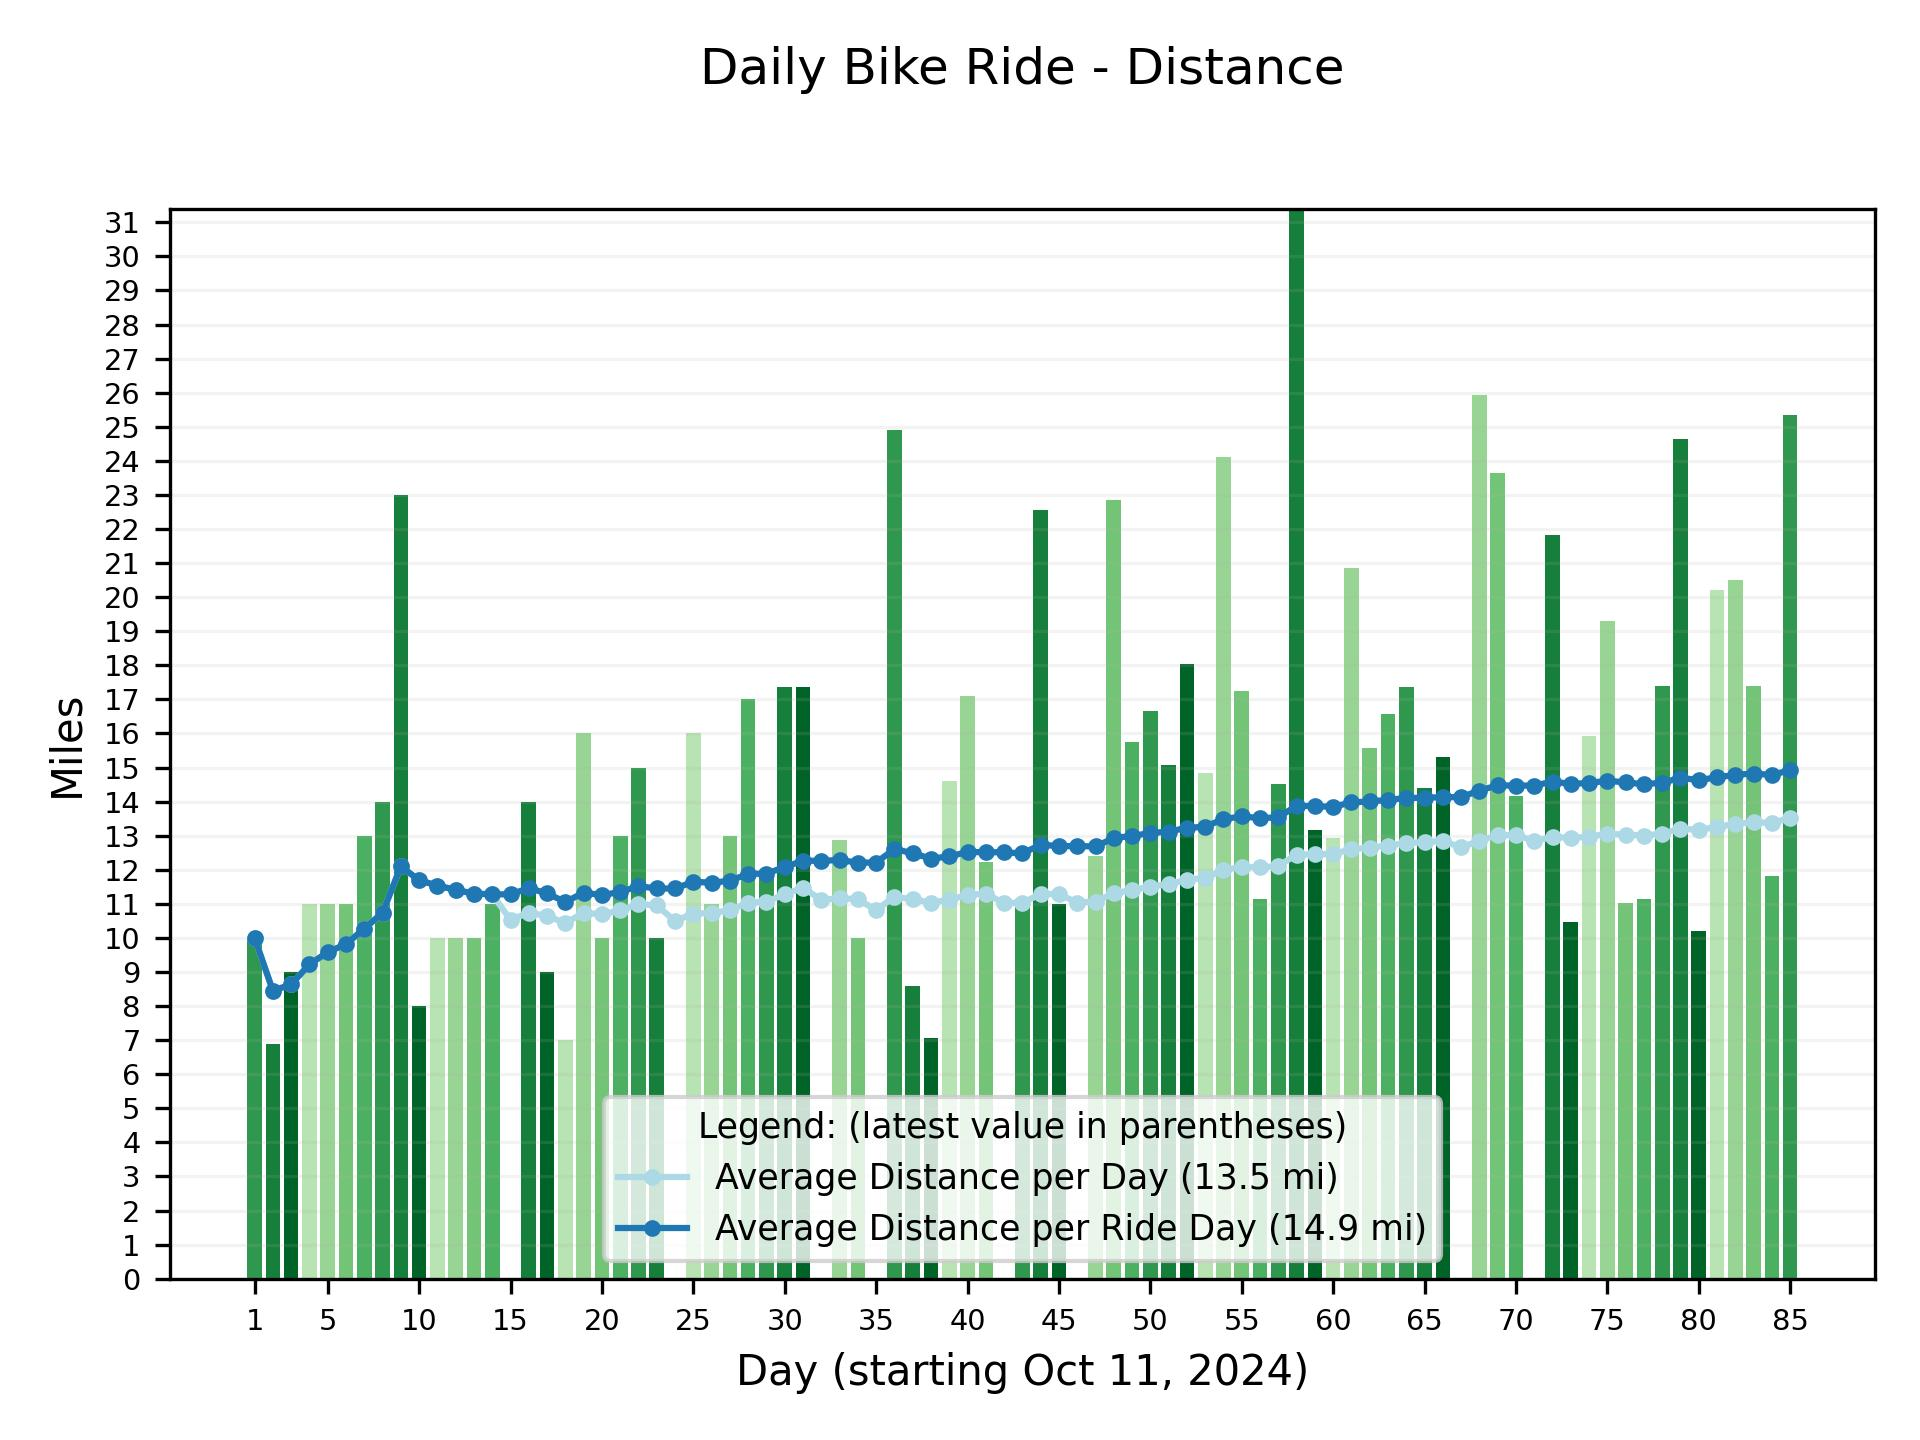
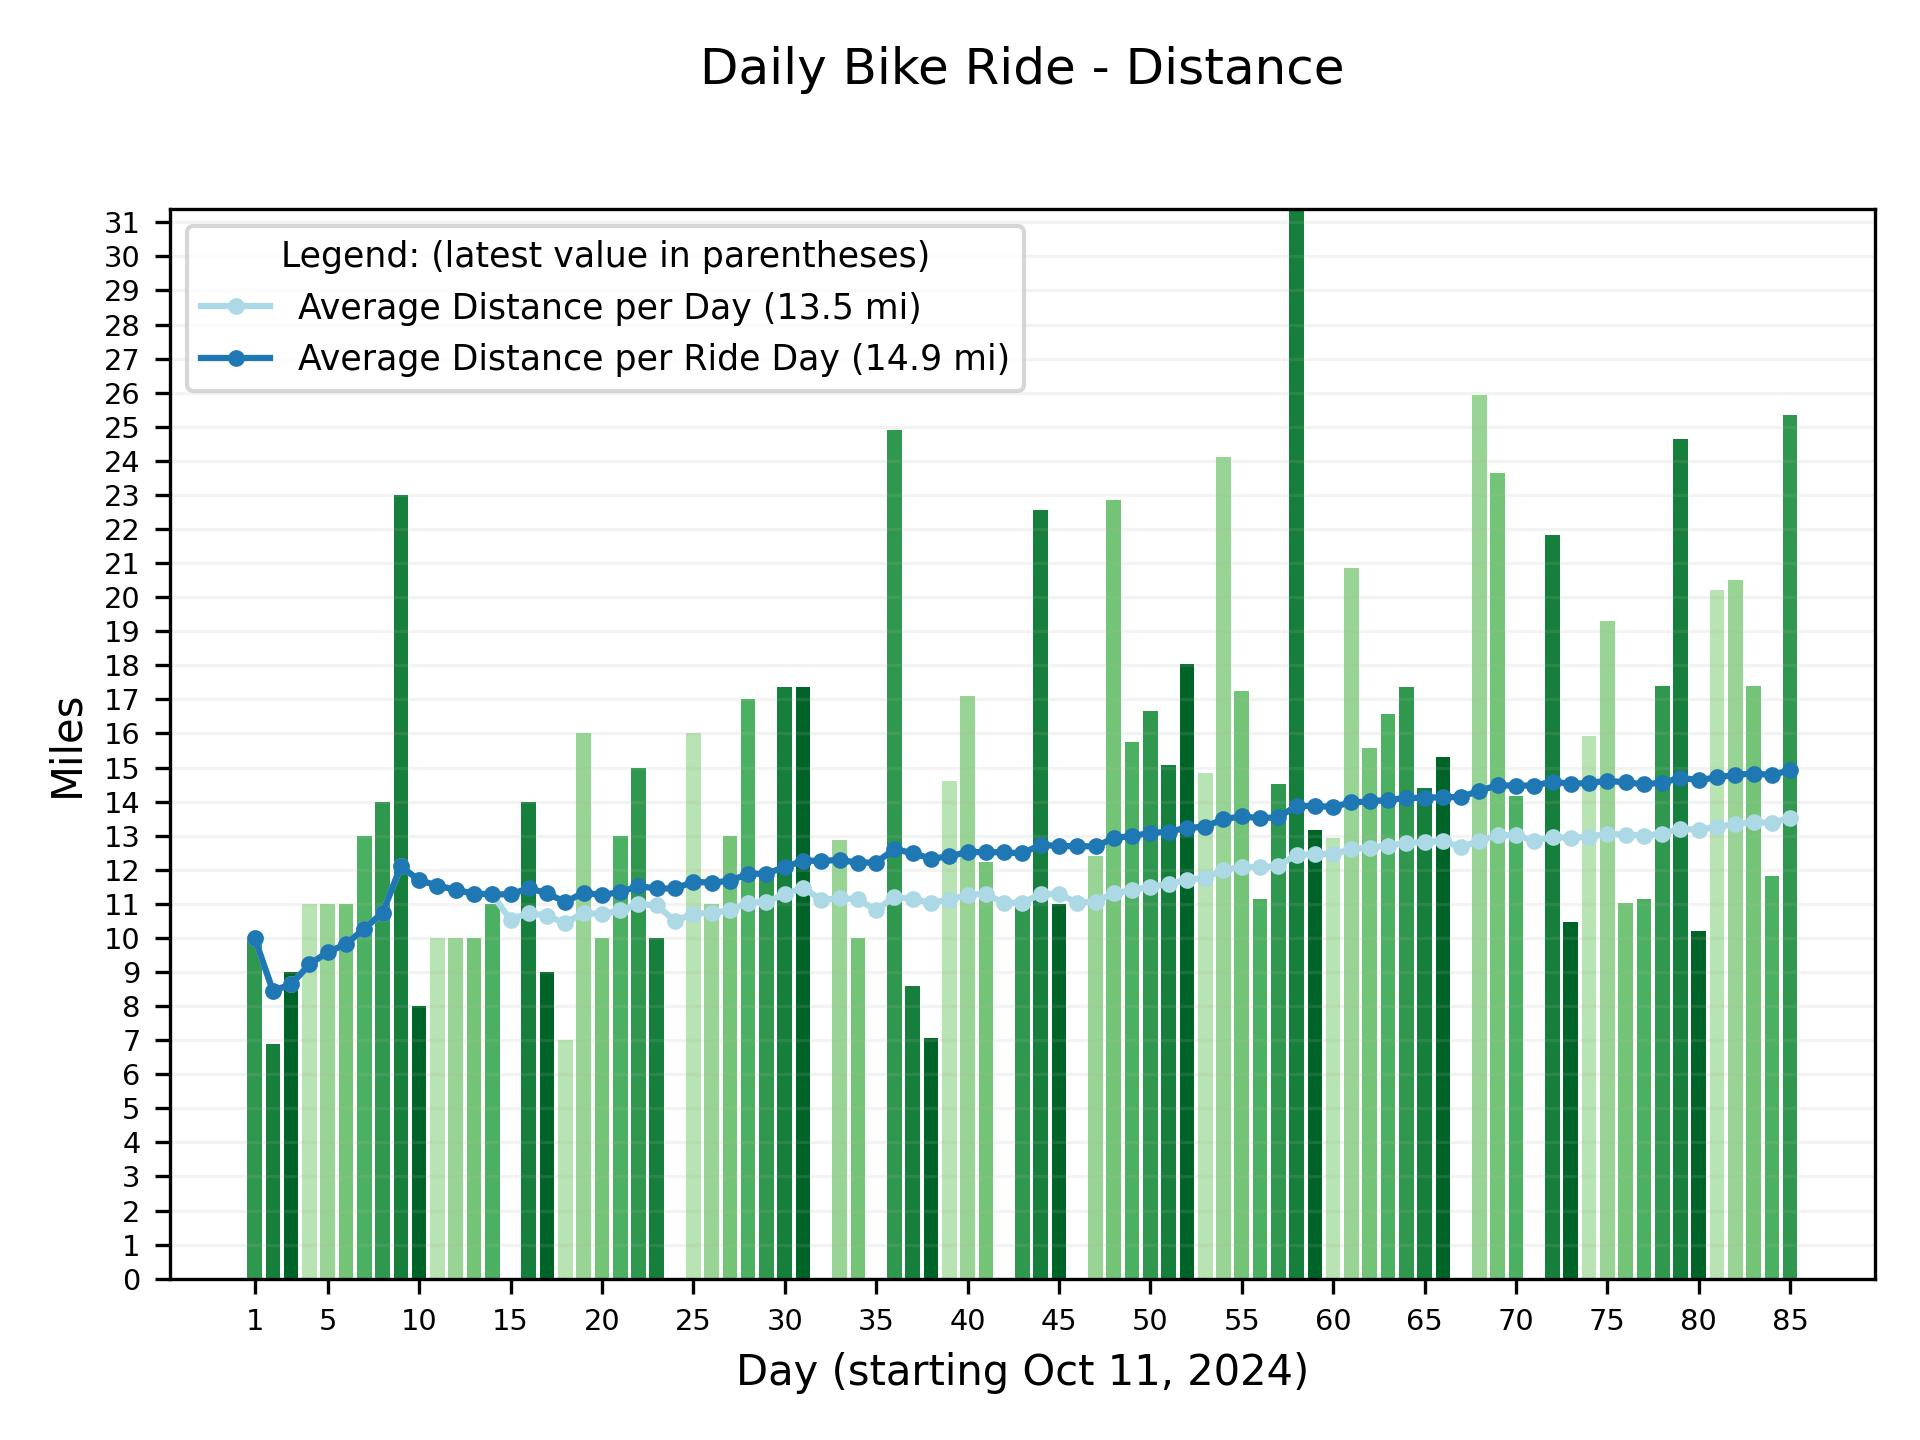
refactor and show more stats summary values

Changed region(s): [[0.3125, 0.75, 0.75, 0.875], [0.0938, 0.1562, 0.5312, 0.2812]]

diff --git a/src/biking/stats.py b/src/biking/stats.py
@@ -1,5 +1,7 @@
 import calendar
 
+from .conversions import feet2miles
+
 
 class Statistics:
     def __init__(self, input_data):
@@ -13,6 +15,16 @@ class Statistics:
         max_miles = 0
         min_miles = 999
         total_miles = 0
+
+        max_elev_gain = 0
+        min_elev_gain = 999
+        total_elev_gain = 0
+
+        max_elev_high = 0
+        min_elev_high = 999
+
+        max_elev_low = 0
+        min_elev_low = 999
 
         data = dict(
             ride_rate_per_day=[],
@@ -30,13 +42,29 @@ class Statistics:
 
         for record in daily_data:
             miles = record["distance"]
-            num_days += 1
-            num_biked_days += (1 if miles else 0)
-
             if 0 < miles < min_miles:
                 min_miles = miles
             max_miles = max(miles, max_miles)
             total_miles += miles
+
+            elev_gain = record["total_elevation_gain"]
+            if 0 < elev_gain < min_elev_gain:
+                min_elev_gain = elev_gain
+            max_elev_gain = max(elev_gain, max_elev_gain)
+            total_elev_gain += elev_gain
+
+            elev_high = record["elev_high"]
+            if 0 < elev_high < min_elev_high:
+                min_elev_high = elev_high
+            max_elev_high = max(elev_high, max_elev_high)
+
+            elev_low = record["elev_low"]
+            if 0 < elev_low < min_elev_low:
+                min_elev_low = elev_low
+            max_elev_low = max(elev_low, max_elev_low)
+
+            num_days += 1
+            num_biked_days += (1 if miles else 0)
 
             data["ride_rate_per_day"].append((num_biked_days * 100)/num_days)
             data["distance_per_day"].append(miles)
@@ -44,9 +72,9 @@ class Statistics:
             data["avg_distance_per_ride_day"].append(total_miles/num_biked_days)
             data["avg_speed_per_day"].append(record["average_speed"])
             data["max_speed_per_day"].append(record["max_speed"])
-            data["elevation_gain_per_day"].append(record["total_elevation_gain"])
-            data["elevation_high_per_day"].append(record["elev_high"])
-            data["elevation_low_per_day"].append(record["elev_low"])
+            data["elevation_gain_per_day"].append(elev_gain)
+            data["elevation_high_per_day"].append(elev_high)
+            data["elevation_low_per_day"].append(elev_low)
 
         first_date, last_date = self.input_data.date_range
         first_day_of_week = calendar.weekday(first_date.year, first_date.month, first_date.day)
@@ -56,10 +84,17 @@ class Statistics:
             first_date=first_date,
             first_day_of_week=first_day_of_week,
             last_date=last_date,
+            max_elev_gain=max_elev_gain,
+            max_elev_high=max_elev_high,
+            max_elev_low=max_elev_low,
             max_miles=max_miles,
+            min_elev_gain=min_elev_gain,
+            min_elev_high=min_elev_high,
+            min_elev_low=min_elev_low,
             min_miles=min_miles,
             num_biked_days=num_biked_days,
             num_days=num_days,
+            total_elev_gain=total_elev_gain,
             total_miles=total_miles,
         )
 
@@ -67,12 +102,26 @@ class Statistics:
 
     def report(self):
         stats = self.stats
+        data = stats["data"]
+
         first_date = stats["first_date"]
         last_date = stats["last_date"]
+        max_elev_gain = int(stats["max_elev_gain"])
+        max_elev_high = int(stats["max_elev_high"])
+        max_elev_low = int(stats["max_elev_low"])
         max_miles = stats["max_miles"]
+        max_speed_avg = max(data["avg_speed_per_day"])
+        max_speed_max = max(data["max_speed_per_day"])
+        min_elev_gain = int(stats["min_elev_gain"])
+        min_elev_high = int(stats["min_elev_high"])
+        min_elev_low = int(stats["min_elev_low"])
         min_miles = stats["min_miles"]
+        min_speed_avg = min(x for x in data["avg_speed_per_day"] if x > 0)
+        min_speed_max = min(x for x in data["max_speed_per_day"] if x > 0)
         num_biked_days = stats["num_biked_days"]
         num_days = stats["num_days"]
+        total_elev_gain = int(stats["total_elev_gain"])
+        total_elev_gain_miles = feet2miles(total_elev_gain)
         total_miles = stats["total_miles"]
 
         first_day = first_date.strftime("%Y-%m-%d")
@@ -85,11 +134,22 @@ class Statistics:
 
         print(f"Date range: {first_day} to {last_day}")
         print()
-        print("total days  biked  skipped  ride rate")
-        print("----------  -----  -------  ---------")
-        print(f"{num_days:10}  {num_biked_days:5}  {num_skipped_days:7}  {ride_rate:8.2f}%")
+        print("days  total  biked  skipped  ride rate")
+        print("      -----  -----  -------  ---------")
+        print(f"{num_days:11}  {num_biked_days:5}  {num_skipped_days:7}  {ride_rate:8.2f}%")
         print()
-        print("biked miles  min   max   avg   avg-per-day-biked")
-        print("-----------  ----  ----  ----  -----------------")
-        print(f"{total_miles:11.1f}  {min_miles:4.1f}  {max_miles:4.1f}  {avg_miles:4.1f}  {avg_ride_day_miles:17.1f}")
+        print("distance (miles)  min   max   avg   avg-per-day-biked  total")
+        print("                  ----  ----  ----  -----------------  -------")
+        print(f"{min_miles:22.1f}  {max_miles:4.1f}  {avg_miles:4.1f}  {avg_ride_day_miles:17.1f}  {total_miles:7.1f}")
         print()
+        print("elevation gain (ft)  min   max   total    total miles")
+        print("                     ----  ----  -------  -----------")
+        print(f"{min_elev_gain:25}  {max_elev_gain:4}  {total_elev_gain:7}  {total_elev_gain_miles:11.1f}")
+        print()
+        print("elevation range (ft)  low:  min   max   high:  min   max")
+        print("                            ----  ----         ----  ----")
+        print(f"{min_elev_low:31}  {max_elev_low:4}  {min_elev_high:12}  {max_elev_high:4}")
+        print()
+        print("speed (mph)  avg:  min   max   max:  min   max")
+        print("                   ----  ----        ----  ----")
+        print(f"{min_speed_avg:23.1f}  {max_speed_avg:4.1f}  {min_speed_max:10.1f}  {max_speed_max:4.1f}")

diff --git a/src/biking/graph/base.py b/src/biking/graph/base.py
@@ -34,9 +34,9 @@ class Graph:
 
         return colors
 
-    def set_legend(self, handles, labels):
+    def set_legend(self, handles, labels, loc="lower center"):
         plt.legend(
-            loc="lower center",
+            loc=loc,
             fontsize="small",
             title="Legend: (latest value in parentheses)",
             title_fontsize="small",
@@ -95,22 +95,29 @@ class Graph:
         return line1, line2
 
     def y_axis_elevation(self, ax1):
-        y = self.stats["data"]["elevation_gain_per_day"]
+        y_gain = self.stats["data"]["elevation_gain_per_day"]
+        y_high = self.stats["data"]["elevation_high_per_day"]
+        y_low = self.stats["data"]["elevation_low_per_day"]
         x = list(range(self.num_days))
 
-        y = [round(n) for n in y]
+        y_gain = [round(n) for n in y_gain]
+        y_high = [round(n) for n in y_high]
+        y_low = [round(n) for n in y_low]
 
         ax1.set_ylabel("Feet")
-        plt.ylim(0, max(y))
-        plt.yticks(range(0, int(max(y)) + 1, 100), fontsize="x-small")
+        max_y = int(max(*y_gain, *y_high))
+        plt.ylim(0, max_y)
+        plt.yticks(range(0, max_y + 1, 100), fontsize="x-small")
 
         plt.grid(axis="y", linestyle="-", alpha=0.15)
 
         colors = self.get_colors()
-        ax1.bar(x, y, color=colors)
-        dots1, = ax1.plot(x, y, color="tab:blue", linestyle="None", marker="o", markersize=3)
+        ax1.bar(x, y_gain, color=colors)
+        dots1, = ax1.plot(x, y_gain, color="tab:blue", linestyle="None", marker="o", markersize=3)
+        line1, = ax1.plot(x, y_low, color="yellow", linestyle="None", marker="o", markersize=3)
+        line2, = ax1.plot(x, y_high, color="orange", linestyle="None", marker="o", markersize=3)
 
-        return dots1
+        return dots1, line1, line2
 
     def y_axis_speed(self, ax1):
         y_avg = self.stats["data"]["avg_speed_per_day"]

diff --git a/src/biking/graph/elevation.py b/src/biking/graph/elevation.py
@@ -4,24 +4,27 @@ from .base import Graph
 
 
 class ElevationGraph(Graph):
-    def legend(self, dots1):
-        elevation = self.stats["data"]["elevation_gain_per_day"][-1]
+    def legend(self, dots1, line1, line2):
+        elevation_gain = self.stats["data"]["elevation_gain_per_day"][-1]
+        elevation_low = self.stats["data"]["elevation_low_per_day"][-1]
+        elevation_high = self.stats["data"]["elevation_high_per_day"][-1]
 
-        handles = (dots1, )
+        handles = (dots1, line1, line2)
         labels = (
-            f"Elevation Gain ({elevation:0.1f}ft)",
+            f"Elevation Gain ({elevation_gain:0.1f} ft)",
+            f"Elevation Low ({elevation_low:0.1f} ft)",
+            f"Elevation High ({elevation_high:0.1f} ft)",
         )
-        self.set_legend(handles, labels)
+        self.set_legend(handles, labels, loc="upper left")
 
     def generate(self):
         fig, ax1 = plt.subplots()
-        plt.title("Daily Bike Ride - Elevation Gain", pad=30)
+        plt.title("Daily Bike Ride - Elevation", pad=30)
 
         self.x_axis_days(ax1)
-        dots1 = self.y_axis_elevation(ax1)
-        self.legend(dots1)
+        dots1, line1, line2 = self.y_axis_elevation(ax1)
+        self.legend(dots1, line1, line2)
 
         plt.tight_layout()
 
         plt.savefig(self.output_file, dpi=300)
-        print(f"Elevation graph saved to {self.output_file}.")

diff --git a/src/biking/graph/combo.py b/src/biking/graph/combo.py
@@ -12,18 +12,13 @@ class ComboGraph(Graph):
         avg_ride_day_miles = total_miles / num_biked_days
         ride_rate = round(num_biked_days / self.num_days * 100, 2)
 
-        plt.legend(
-            loc="lower center",
-            title="Legend: (latest value in parentheses)",
-            title_fontsize="small",
-            fontsize="small",
-            handles=(line1, line2, line3),
-            labels=(
-                f"Average Distance per Day ({avg_miles:0.1f} mi)",
-                f"Average Distance per Ride Day ({avg_ride_day_miles:0.1f} mi)",
-                f"Ride Rate ({ride_rate:5.2f}%)",
-            ),
+        handles = (line1, line2, line3)
+        labels = (
+            f"Average Distance per Day ({avg_miles:0.1f} mi)",
+            f"Average Distance per Ride Day ({avg_ride_day_miles:0.1f} mi)",
+            f"Ride Rate ({ride_rate:5.2f}%)",
         )
+        self.set_legend(handles, labels)
 
     def generate(self):
         fig, ax1 = plt.subplots()
@@ -37,4 +32,3 @@ class ComboGraph(Graph):
         plt.tight_layout()
 
         plt.savefig(self.output_file, dpi=300)
-        print(f"Combined Metrics saved to {self.output_file}.")

diff --git a/src/biking/graph/distance.py b/src/biking/graph/distance.py
@@ -11,17 +11,12 @@ class DistanceGraph(Graph):
         avg_miles = total_miles / self.num_days
         avg_ride_day_miles = total_miles / num_biked_days
 
-        plt.legend(
-            loc="lower center",
-            title="Legend: (latest value in parentheses)",
-            title_fontsize="small",
-            fontsize="small",
-            handles=(line1, line2),
-            labels=(
-                f"Average Distance per Day ({avg_miles:0.1f} mi)",
-                f"Average Distance per Ride Day ({avg_ride_day_miles:0.1f} mi)",
-            ),
+        handles = (line1, line2)
+        labels = (
+            f"Average Distance per Day ({avg_miles:0.1f} mi)",
+            f"Average Distance per Ride Day ({avg_ride_day_miles:0.1f} mi)",
         )
+        self.set_legend(handles, labels, loc="upper left")
 
     def generate(self):
         fig, ax1 = plt.subplots()
@@ -34,4 +29,3 @@ class DistanceGraph(Graph):
         plt.tight_layout()
 
         plt.savefig(self.output_file, dpi=300)
-        print(f"Distance graph saved to {self.output_file}.")

diff --git a/src/biking/graph/speed.py b/src/biking/graph/speed.py
@@ -8,17 +8,12 @@ class SpeedGraph(Graph):
         max_speed = self.stats["data"]["max_speed_per_day"][-1]
         avg_speed = self.stats["data"]["avg_speed_per_day"][-1]
 
-        plt.legend(
-            loc="lower center",
-            title="Legend: (latest value in parentheses)",
-            title_fontsize="small",
-            fontsize="small",
-            handles=(dots1, dots2),
-            labels=(
-                f"Max Speed ({max_speed:0.1f} mph)",
-                f"Average Speed ({avg_speed:0.1f} mph)",
-            ),
+        handles = (dots1, dots2)
+        labels = (
+            f"Max Speed ({max_speed:0.1f} mph)",
+            f"Average Speed ({avg_speed:0.1f} mph)",
         )
+        self.set_legend(handles, labels)
 
     def generate(self):
         fig, ax1 = plt.subplots()
@@ -31,4 +26,3 @@ class SpeedGraph(Graph):
         plt.tight_layout()
 
         plt.savefig(self.output_file, dpi=300)
-        print(f"Speed graph saved to {self.output_file}.")

diff --git a/src/biking/graph/ride_rate.py b/src/biking/graph/ride_rate.py
@@ -8,16 +8,11 @@ class RideRateGraph(Graph):
         num_biked_days = self.stats["num_biked_days"]
         ride_rate = round(num_biked_days / self.num_days * 100, 2)
 
-        plt.legend(
-            loc="lower center",
-            title="Legend: (latest value in parentheses)",
-            title_fontsize="small",
-            fontsize="small",
-            handles=(line1,),
-            labels=(
-                f"Ride Rate ({ride_rate:5.2f}%)",
-            ),
+        handles = (line1,)
+        labels = (
+            f"Ride Rate ({ride_rate:5.2f}%)",
         )
+        self.set_legend(handles, labels)
 
     def generate(self):
         fig, ax1 = plt.subplots()
@@ -30,4 +25,3 @@ class RideRateGraph(Graph):
         plt.tight_layout()
 
         plt.savefig(self.output_file, dpi=300, bbox_inches="tight")
-        print(f"Ride Rate saved to {self.output_file}.")

diff --git a/src/biking/conversions.py b/src/biking/conversions.py
@@ -3,6 +3,10 @@ import re
 from datetime import date
 
 
+def feet2miles(num):
+    return float(num) / 5280
+
+
 def meters2feet(num):
     return float(num) * 3.28084
 
